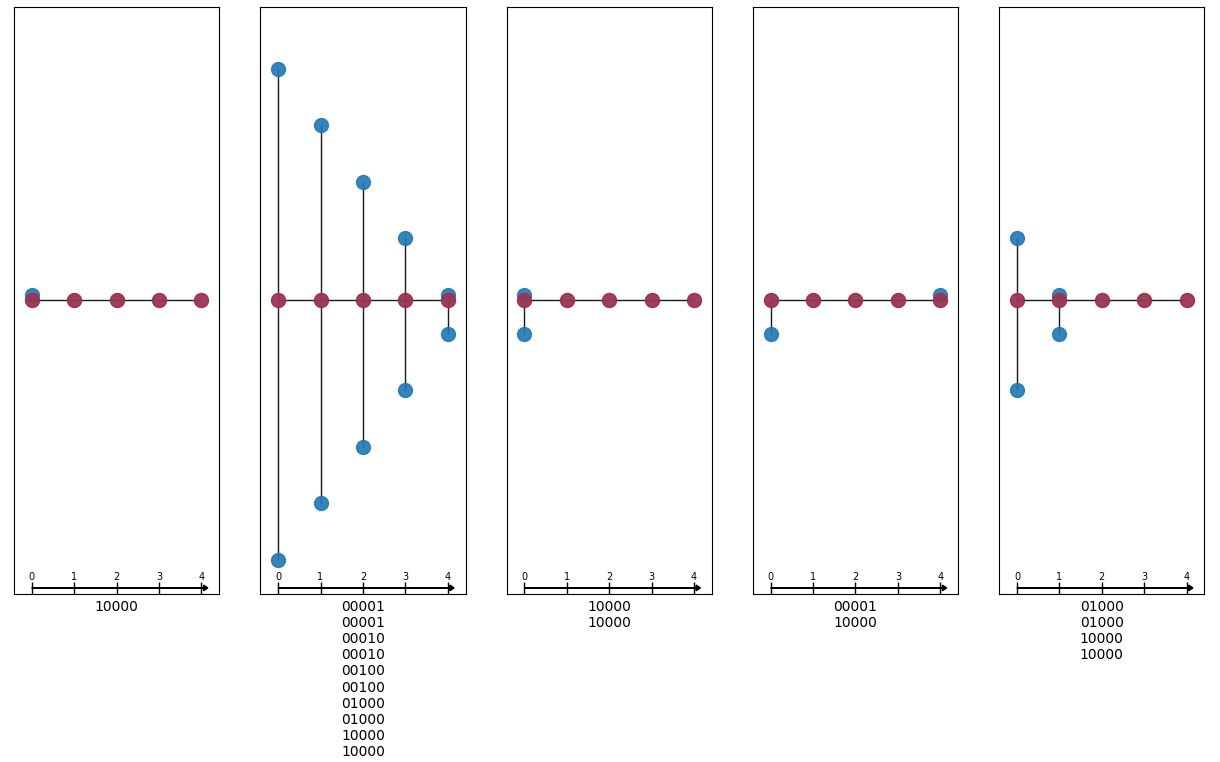
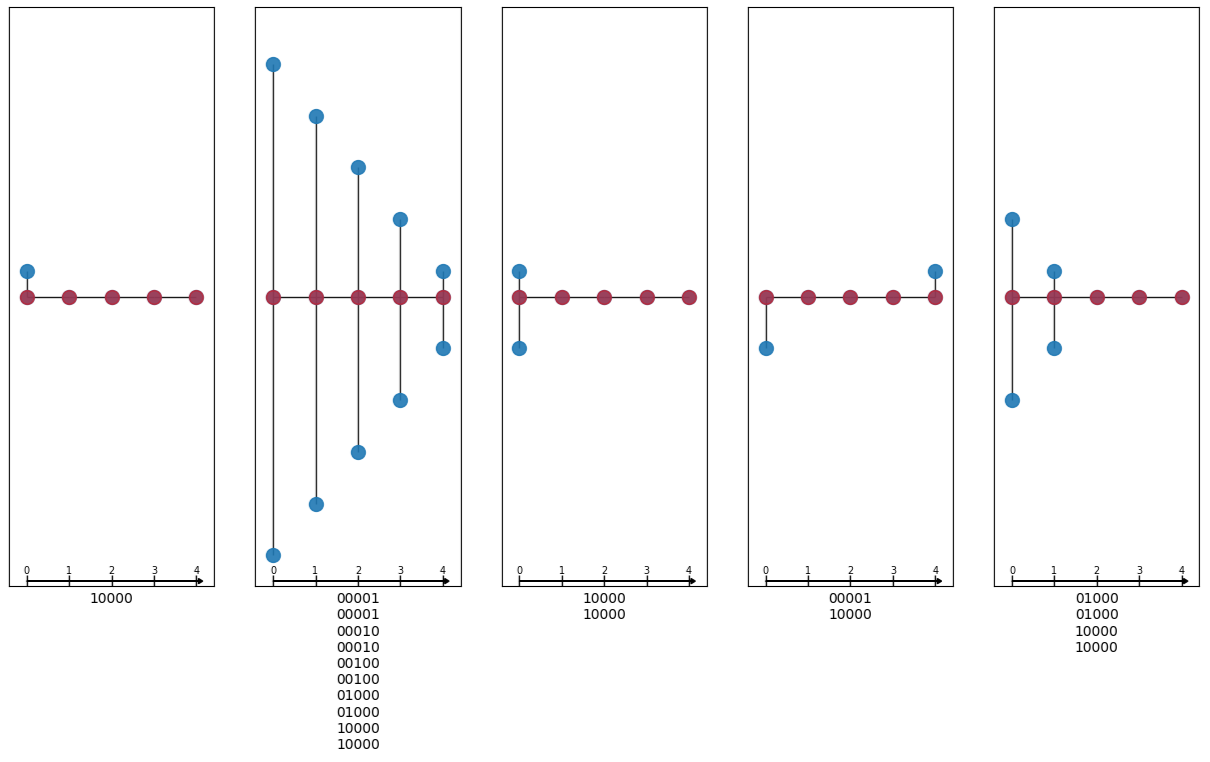
Ergebnisse angepasst (periodic)

Changed region(s): [[0.0, 0.0302, 0.581, 0.9961], [0.6116, 0.0, 1.0, 0.8753], [0.4281, 0.7546, 0.581, 0.8451]]

diff --git a/ETN.py b/ETN.py
@@ -309,13 +309,13 @@ def draw_ETN(ETN,S,ax,multiple=False):
     def y_value(k):                                                                                                  # since the limits on the y-axe are different for every k, this function regulates it
         
         if k == 2:
-            return (20, 2.5)                                                                                         # Laptop: (20, 2.5), PC: (19, 1.8)
+            return (24, 2.5)                                                                                         # Laptop: (24, 2.5), PC: (19, 1.8) (veraltet, muss +4 hin bei der ersten Zahl aber muss das mal am PC testen)
         elif k == 3:
-            return (34, 3)                                                                                           # Laptop: (34, 3), PC: (34, 2.8)
+            return (38, 3)                                                                                           # Laptop: (38, 3), PC: (34, 2.8) (veraltet, muss +4 hin bei der ersten Zahl aber muss das mal am PC testen)
         elif k == 4:
-            return (52, 4)                                                                                           # Laptop: (52, 4), PC: (52, 3.8)
+            return (56, 4)                                                                                           # Laptop: (56, 4), PC: (52, 3.8) (veraltet, muss +4 hin bei der ersten Zahl aber muss das mal am PC testen)
         else:   # k ==5
-            return (76, 5)                                                                                           # Laptop: (76, 5), PC: (76, 4.8)
+            return (80, 5)                                                                                           # Laptop: (80, 5), PC: (76, 4.8) (veraltet, muss +4 hin bei der ersten Zahl aber muss das mal am PC testen)
             
     if (node_label == {}):
         y_axe, num = y_value(k)                                                                                   # parameter der entscheidet, wo limit auf der y-achse des graphen ist

diff --git a/Xhemo_CharlotteDaten_ungerichtet_damped.py b/Xhemo_CharlotteDaten_ungerichtet_damped.py
@@ -15,10 +15,10 @@ from ETMM import *
 #for baba_nummer in range (7,8):
 
 # Parameters
-k = 4                                   # number of static snapshot used for the constructions of ETN
+k = 2                                   # number of static snapshot used for the constructions of ETN
 gap = 0.5                               # temporal gap
 label = False                           # if true, the loaded dataset is labeled
-file_name = "periodic_01_graph_100" #+ str(baba_nummer)
+file_name = "periodic_01_graph_0" #+ str(baba_nummer)
 
 #G = nx.read_edgelist("Datasets/"+file_name)
 
@@ -76,7 +76,7 @@ def load_data(path):                                                        # Ei
 
 
 # Load the temporal graph as a sequence of static NetworkX graphs
-data = load_data("Datasets/ungerichtet/periodic_01/"+file_name+".txt")                   # hier nicht vergessen immer die Endungen (zB .txt) zu ändern, wenn oben file_name geändert wird
+data = load_data("Datasets/ungerichtet/periodic_01/"+file_name)                   # hier nicht vergessen immer die Endungen (zB .txt) zu ändern, wenn oben file_name geändert wird
 
 #print(data)
 
